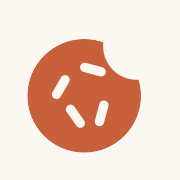
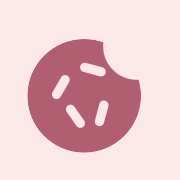
New blush/rose colour palette from reference photo

Changed region(s): [[0.1389, 0.1944, 0.8056, 0.8611]]

diff --git a/styles.css b/styles.css
@@ -2,16 +2,16 @@
 *, *::before, *::after { box-sizing: border-box; }
 
 :root {
-  --cream: #fbf7f1;
-  --paper: #fffdf9;
-  --ink: #20251f;
-  --muted: #656b5f;
-  --muted-soft: #6a7063;
-  --green: #2f5d3a;
-  --green-soft: #eaf0e6;
-  --terra: #c9603c;
-  --terra-ink: #b4532f;
-  --line: #e8e0d3;
+  --cream: #fce8e7;
+  --paper: #fff7f6;
+  --ink: #2e1b1e;
+  --muted: #7a5c62;
+  --muted-soft: #9b7a80;
+  --green: #b05e70;
+  --green-soft: #f4c0c8;
+  --terra: #cb7f8a;
+  --terra-ink: #a04a5a;
+  --line: #e8cdd2;
   --serif: "Fraunces", "Iowan Old Style", Georgia, serif;
   --sans: "Inter", ui-sans-serif, system-ui, -apple-system, "Segoe UI", sans-serif;
   --shadow: 0 24px 44px -30px rgba(32, 37, 31, 0.55);
@@ -307,10 +307,10 @@ button { font: inherit; color: inherit; }
   place-items: center;
   border-radius: 50%;
   background:
-    radial-gradient(circle at 38% 30%, #fffdf9 0%, #f6efe3 55%, #ece2d1 100%);
-  border: 1px solid #e6dccb;
+    radial-gradient(circle at 38% 30%, #fff7f6 0%, #f6d2d6 55%, #e8cdd2 100%);
+  border: 1px solid #e8cdd2;
   box-shadow:
-    0 40px 60px -40px rgba(47, 93, 58, 0.5),
+    0 40px 60px -40px rgba(176, 94, 112, 0.45),
     inset 0 -8px 24px rgba(180, 160, 130, 0.18),
     inset 0 4px 14px rgba(255, 255, 255, 0.9);
   animation: float 7s ease-in-out infinite;
@@ -449,7 +449,7 @@ button { font: inherit; color: inherit; }
   background: var(--green);
   border-color: var(--green);
   color: #fff;
-  box-shadow: 0 8px 16px -12px rgba(47, 93, 58, 0.9);
+  box-shadow: 0 8px 16px -12px rgba(176, 94, 112, 0.9);
 }
 
 .sort {

diff --git a/credits.html b/credits.html
@@ -10,7 +10,7 @@
   <link href="https://fonts.googleapis.com/css2?family=Fraunces:ital,opsz,wght@0,9..144,400..700;1,9..144,400..700&family=Inter:wght@400;500;600;700&display=swap" rel="stylesheet">
   <link rel="icon" href="images/logo-mark.svg" type="image/svg+xml">
   <link rel="apple-touch-icon" href="images/apple-touch-icon.png">
-  <link rel="stylesheet" href="styles.css?v=4">
+  <link rel="stylesheet" href="styles.css?v=6">
   <style>
     .credits { max-width: 780px; padding: 64px 0 80px; }
     .credits h1 { margin: 18px 0 0; font-family: var(--serif); font-size: clamp(2.1rem, 5vw, 3rem); font-weight: 500; letter-spacing: -0.03em; }
@@ -37,8 +37,8 @@
               <circle cx="40" cy="9" r="11.5" fill="#000"/>
             </mask>
           </defs>
-          <circle cx="22" cy="26" r="19.5" fill="#c9603c" mask="url(#brand-bite)"/>
-          <g fill="#fbf7f1">
+          <circle cx="22" cy="26" r="19.5" fill="#b05e70" mask="url(#brand-bite)"/>
+          <g fill="#fce8e7">
             <rect x="12.4" y="18.5" width="3.2" height="9" rx="1.6" transform="rotate(30 14 23)"/>
             <rect x="17.4" y="28.5" width="3.2" height="9" rx="1.6" transform="rotate(-35 19 33)"/>
             <rect x="26.4" y="27.5" width="3.2" height="9" rx="1.6" transform="rotate(15 28 32)"/>

diff --git a/index.html b/index.html
@@ -10,7 +10,7 @@
   <link href="https://fonts.googleapis.com/css2?family=Fraunces:ital,opsz,wght@0,9..144,400..700;1,9..144,400..700&family=Inter:wght@400;500;600;700&display=swap" rel="stylesheet">
   <link rel="icon" href="images/logo-mark.svg" type="image/svg+xml">
   <link rel="apple-touch-icon" href="images/apple-touch-icon.png">
-  <link rel="stylesheet" href="styles.css?v=4">
+  <link rel="stylesheet" href="styles.css?v=6">
 </head>
 <body>
 
@@ -25,8 +25,8 @@
               <circle cx="40" cy="9" r="11.5" fill="#000"/>
             </mask>
           </defs>
-          <circle cx="22" cy="26" r="19.5" fill="#c9603c" mask="url(#brand-bite)"/>
-          <g fill="#fbf7f1">
+          <circle cx="22" cy="26" r="19.5" fill="#b05e70" mask="url(#brand-bite)"/>
+          <g fill="#fce8e7">
             <rect x="12.4" y="18.5" width="3.2" height="9" rx="1.6" transform="rotate(30 14 23)"/>
             <rect x="17.4" y="28.5" width="3.2" height="9" rx="1.6" transform="rotate(-35 19 33)"/>
             <rect x="26.4" y="27.5" width="3.2" height="9" rx="1.6" transform="rotate(15 28 32)"/>
